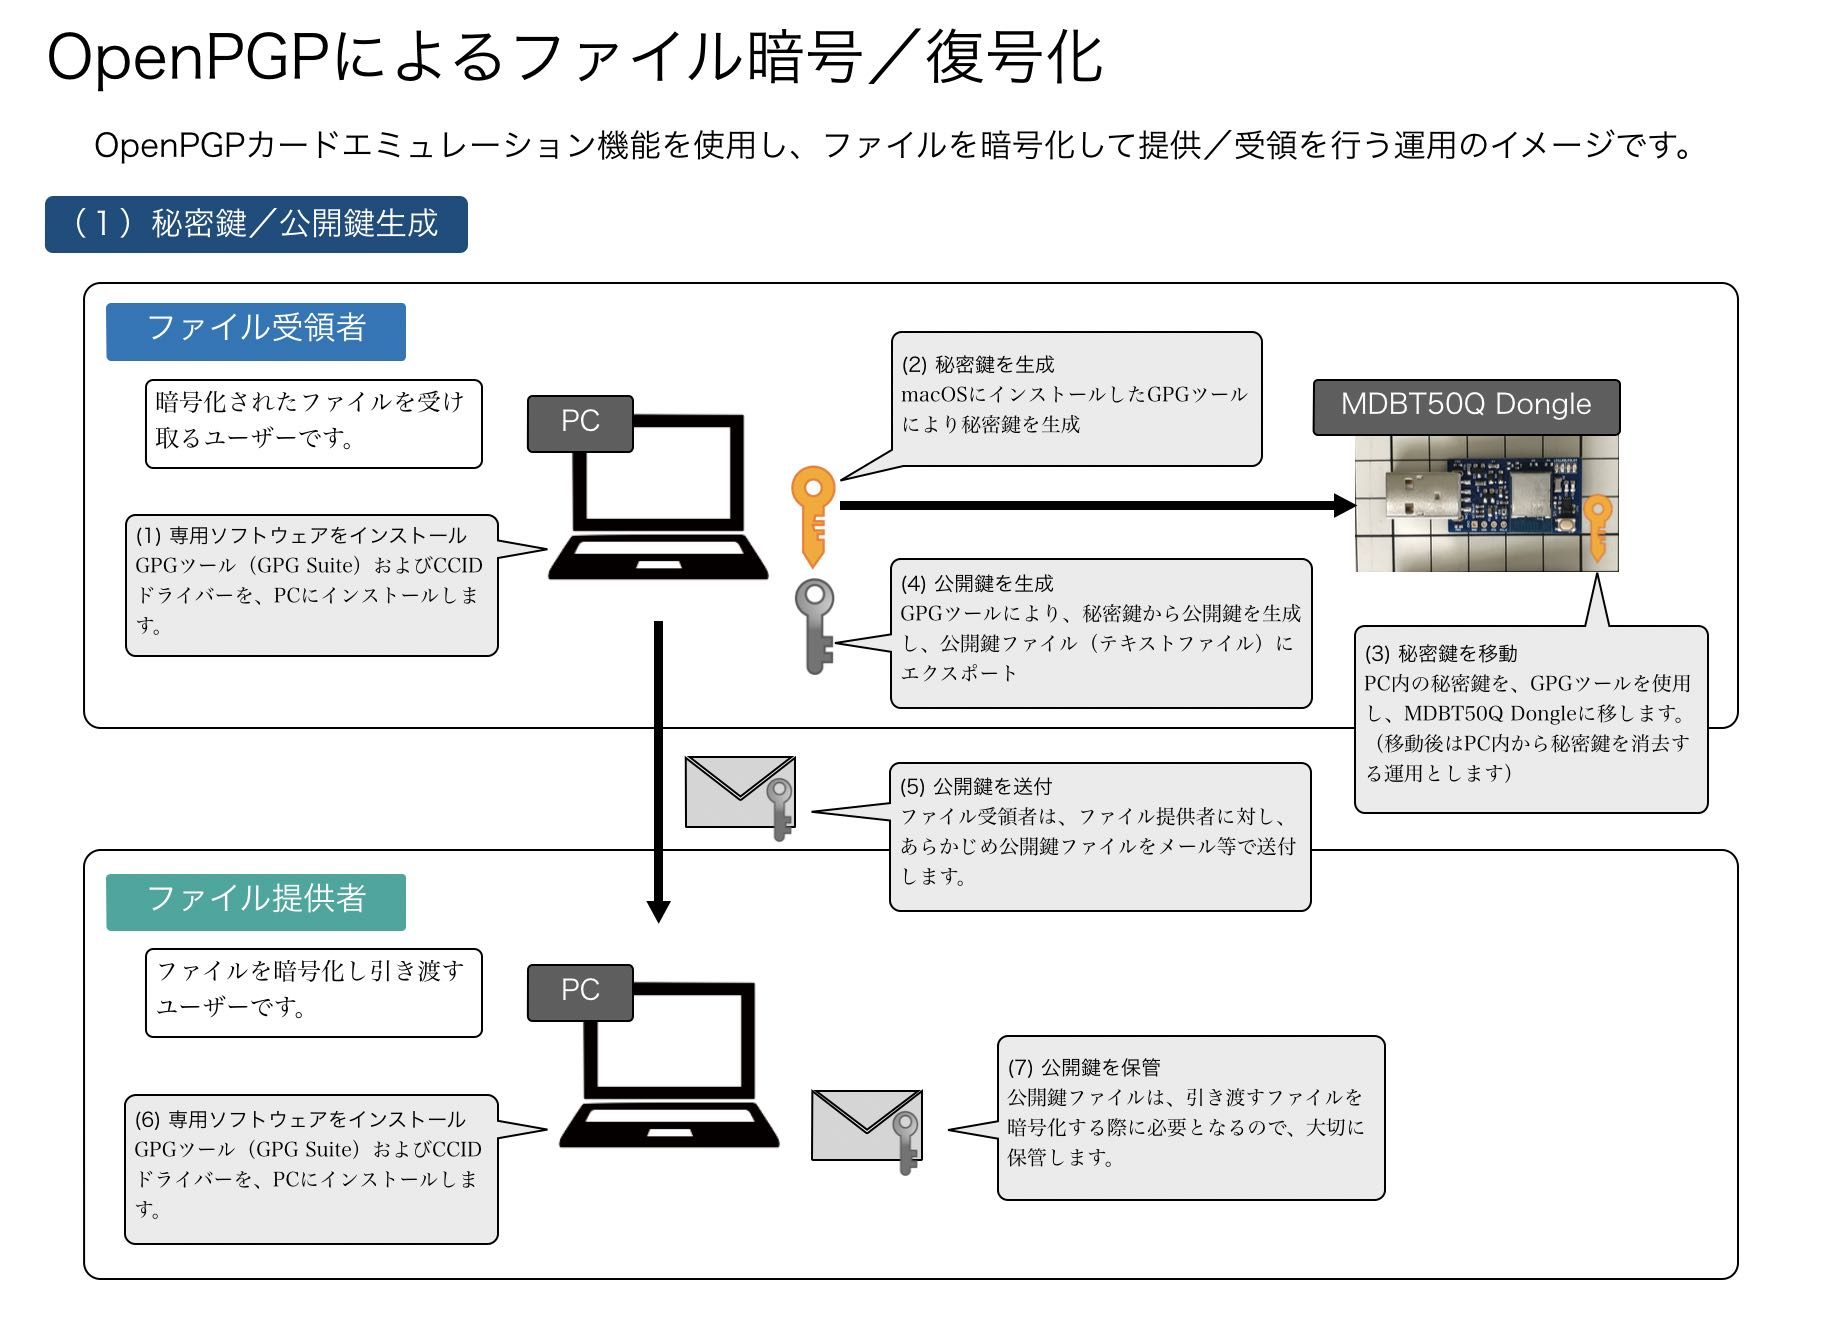
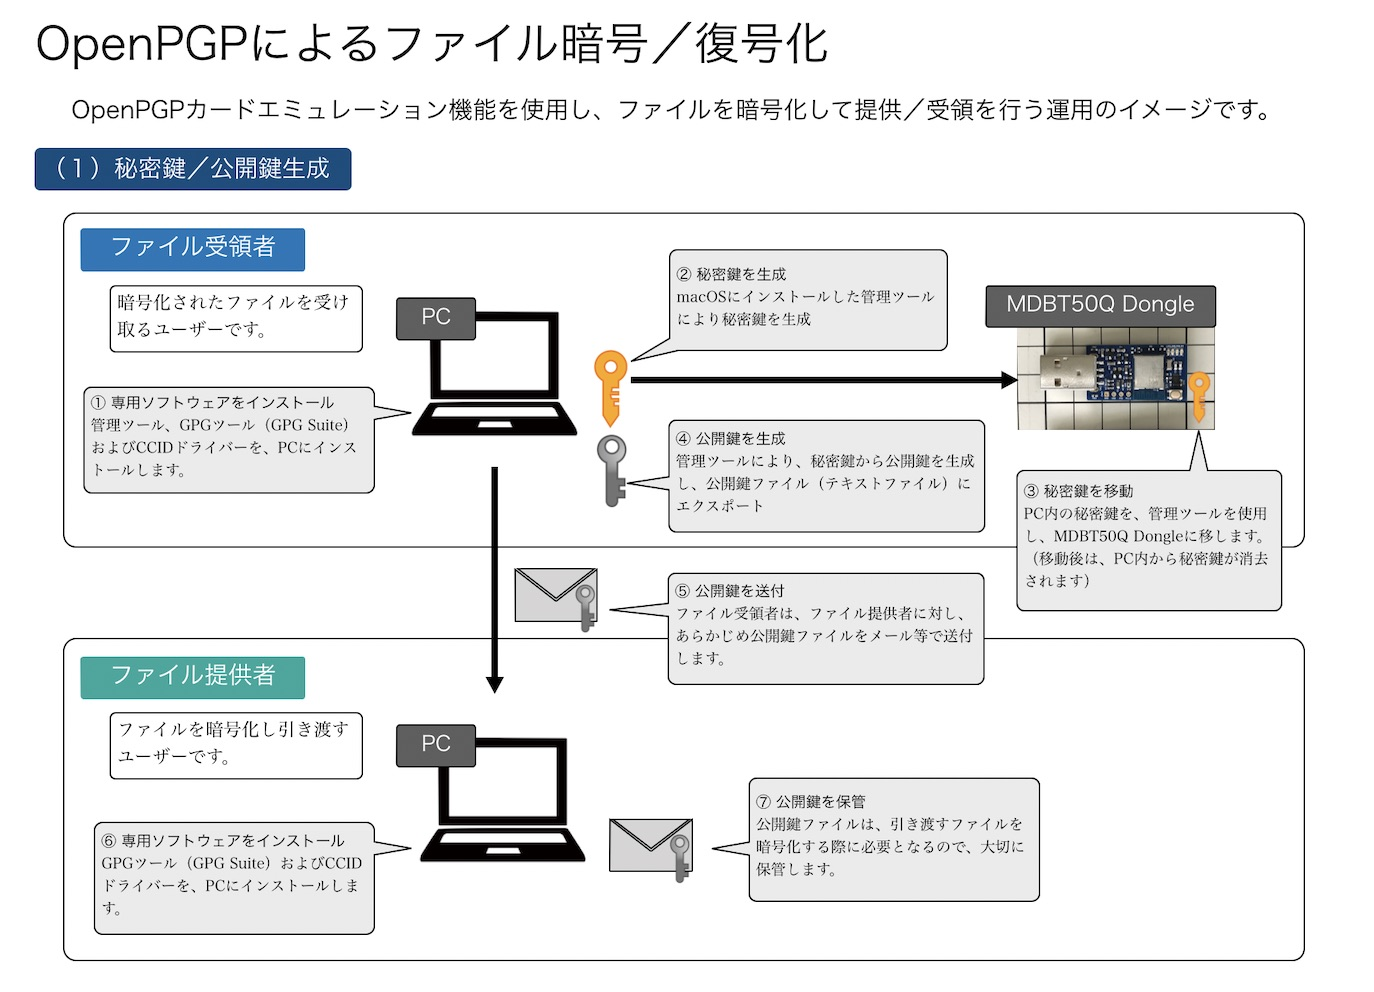
ドキュメントを修正
・説明用画像を差し替え

diff --git a/CCID/OpenPGP/OPGPCRYPTION.md b/CCID/OpenPGP/OPGPCRYPTION.md
@@ -6,8 +6,8 @@
 
 ## 想定局面
 
-<img src="assets01/0017.jpg" width="540"><br>
-<img src="assets01/0018.jpg" width="540">
+<img src="assets01/0017.jpg" width="600"><br>
+<img src="assets01/0018.jpg" width="600">
 
 通常は、ファイルを暗号化するユーザー（ファイル提供者）と、復号化するユーザー（ファイル受領者）が別のケースが多いかと思われます。<br>
 したがって、暗号化手順（ファイル提供者の手順）と、復号化手順（ファイル受領者の手順）に分けて説明します。
